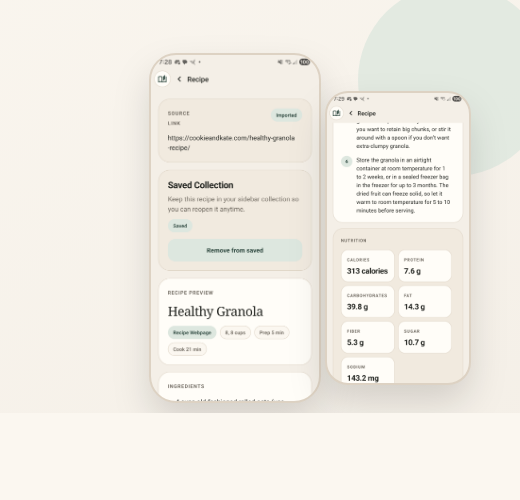
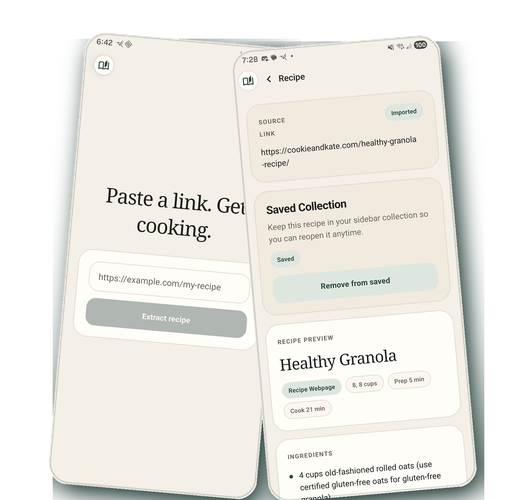
Use high resolution app screenshots

Changed region(s): [[0.0923, 0.0, 1.0, 1.0], [0.0923, 0.06, 0.2769, 0.81], [0.4615, 0.15, 0.4923, 0.18]]

diff --git a/site/styles.css b/site/styles.css
@@ -111,7 +111,12 @@ a {
       rgba(12, 42, 36, 0.88) 50%,
       rgba(12, 42, 36, 0.14) 100%
     ),
-    url("assets/hero-phones.png") right center / auto 100% no-repeat,
+    image-set(
+        url("assets/hero-phones.png") 1x,
+        url("assets/hero-phones@2x.png") 2x,
+        url("assets/hero-phones@3x.png") 3x
+      )
+      right center / auto 100% no-repeat,
     linear-gradient(90deg, var(--forest-strong) 0%, var(--forest) 58%, #edf2e9 100%);
   color: #ffffff;
   min-height: 78svh;
@@ -429,7 +434,12 @@ a {
         rgba(12, 42, 36, 0.86) 58%,
         rgba(12, 42, 36, 0.46) 100%
       ),
-      url("assets/hero-phones.png") center bottom / auto 62% no-repeat,
+      image-set(
+          url("assets/hero-phones.png") 1x,
+          url("assets/hero-phones@2x.png") 2x,
+          url("assets/hero-phones@3x.png") 3x
+        )
+        center bottom / auto 62% no-repeat,
       var(--forest-strong);
     min-height: 84svh;
     padding-top: 164px;
